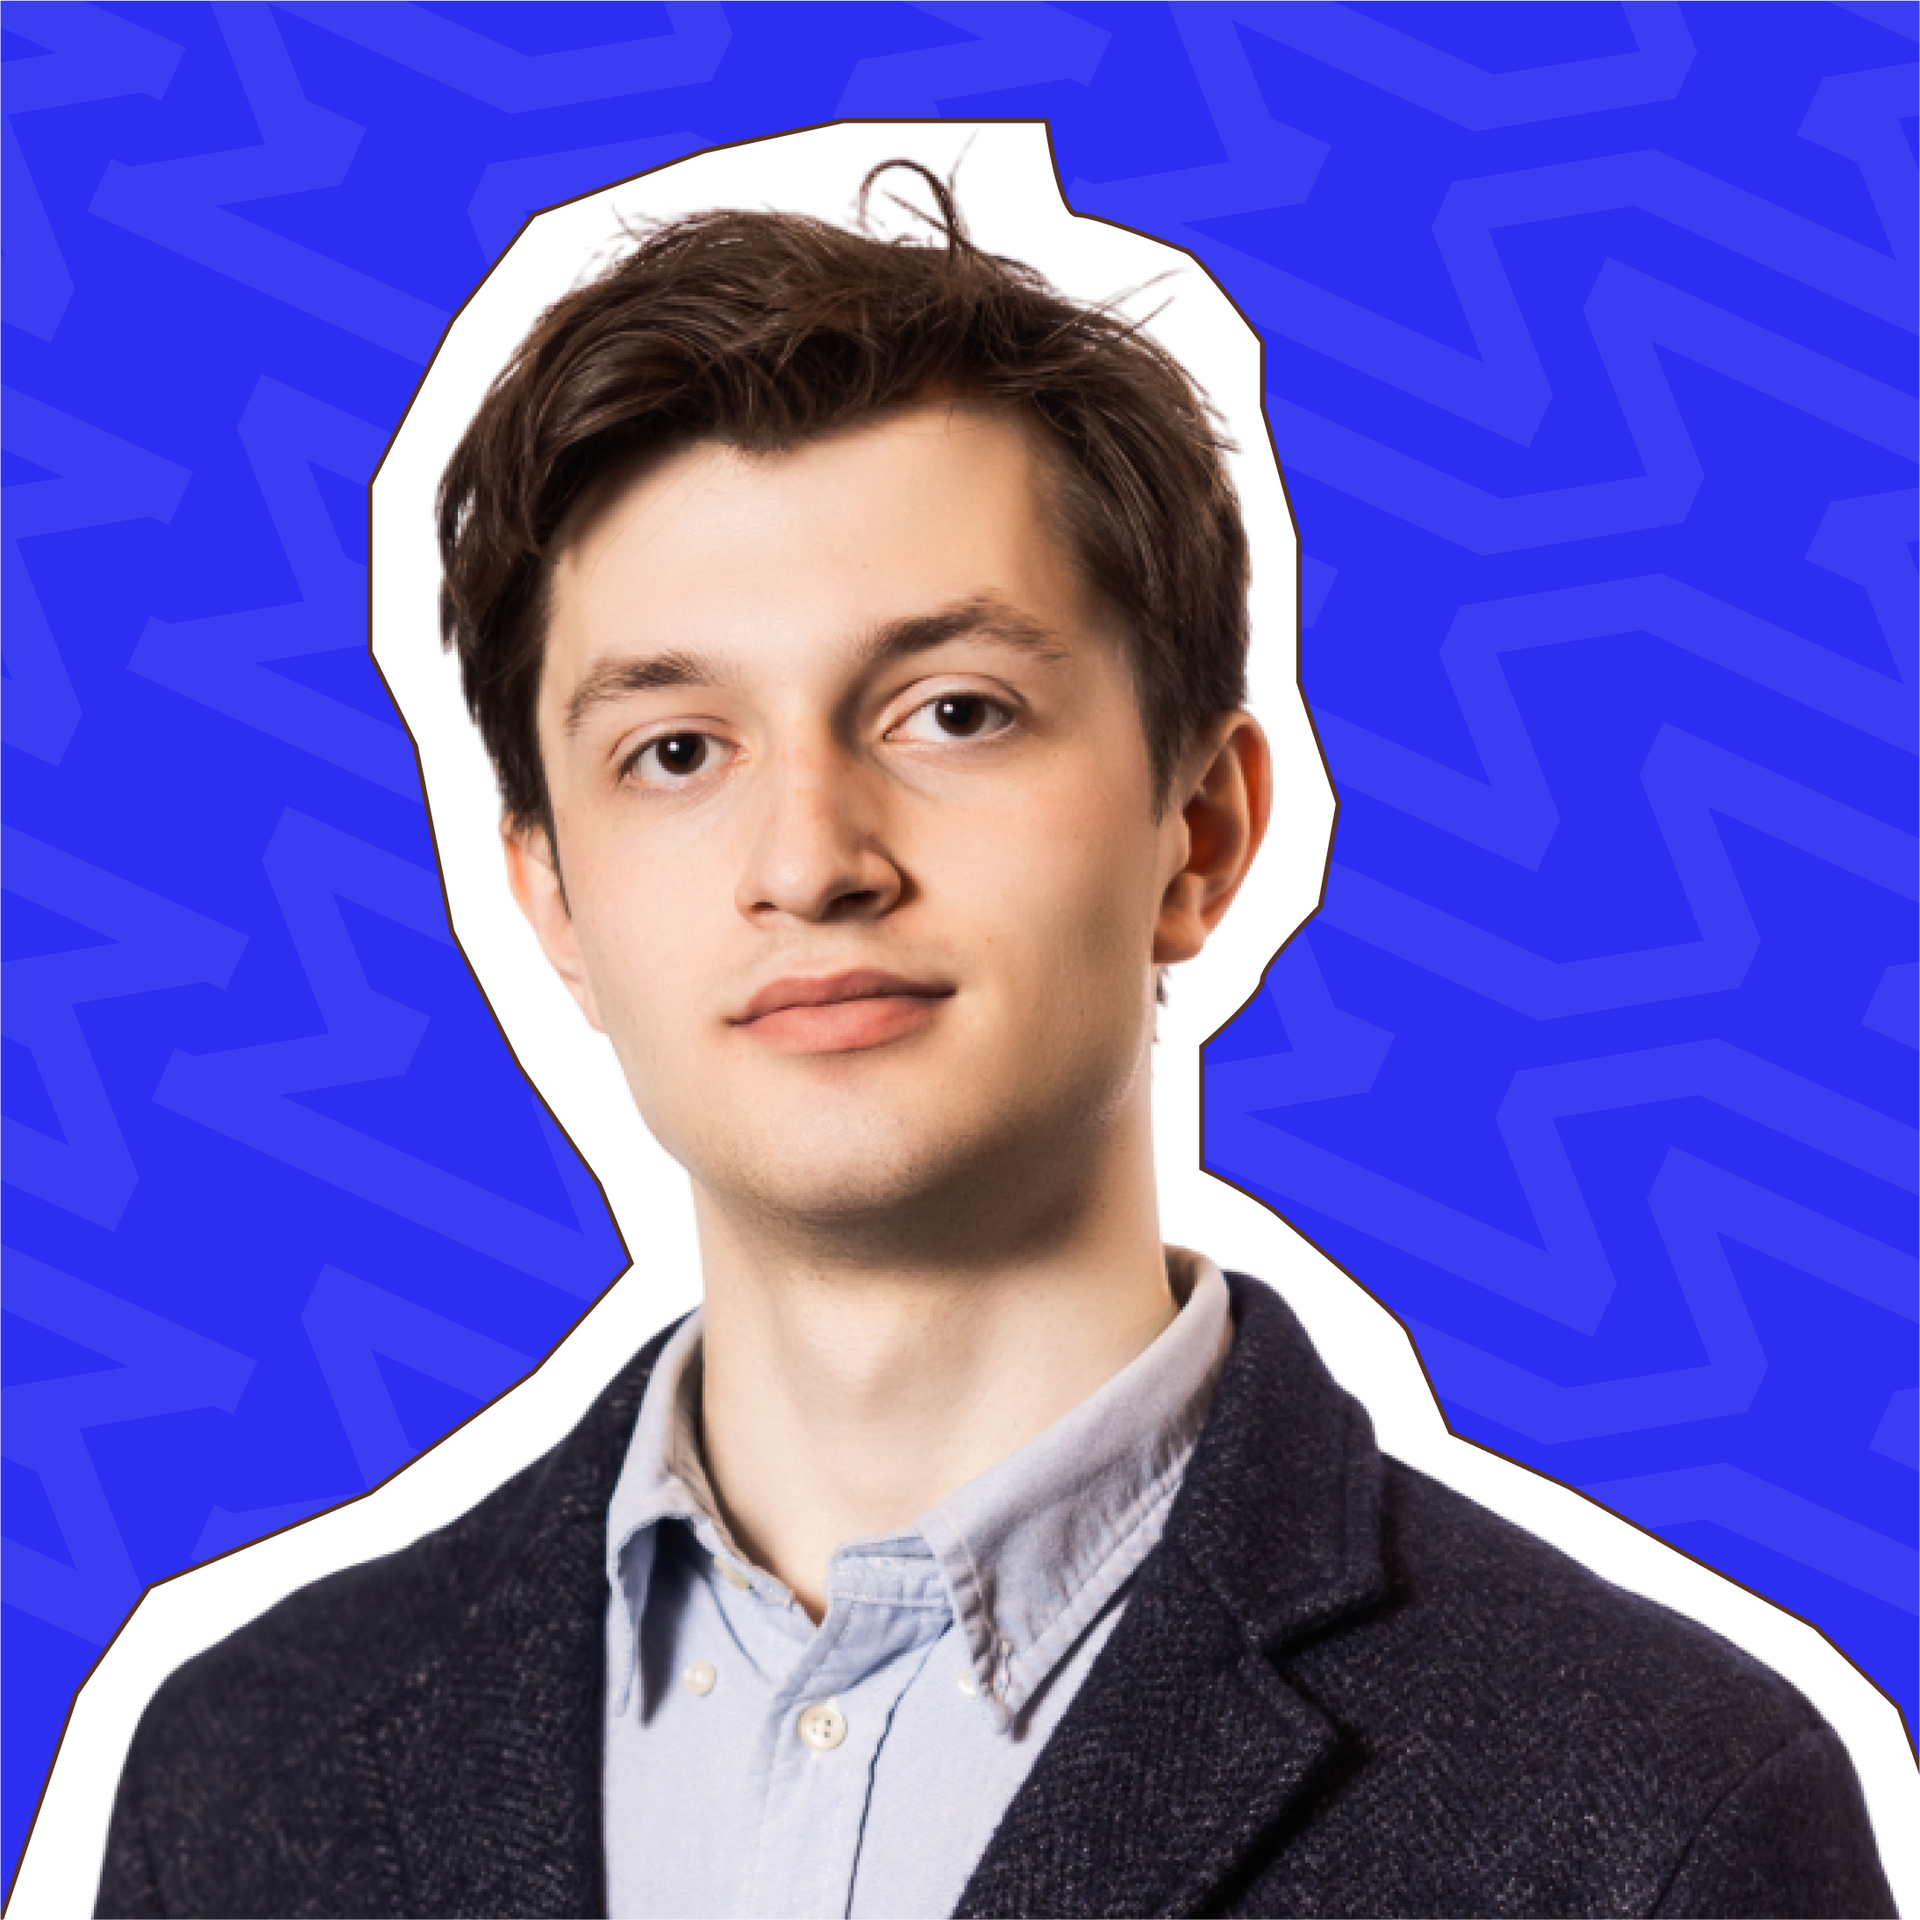
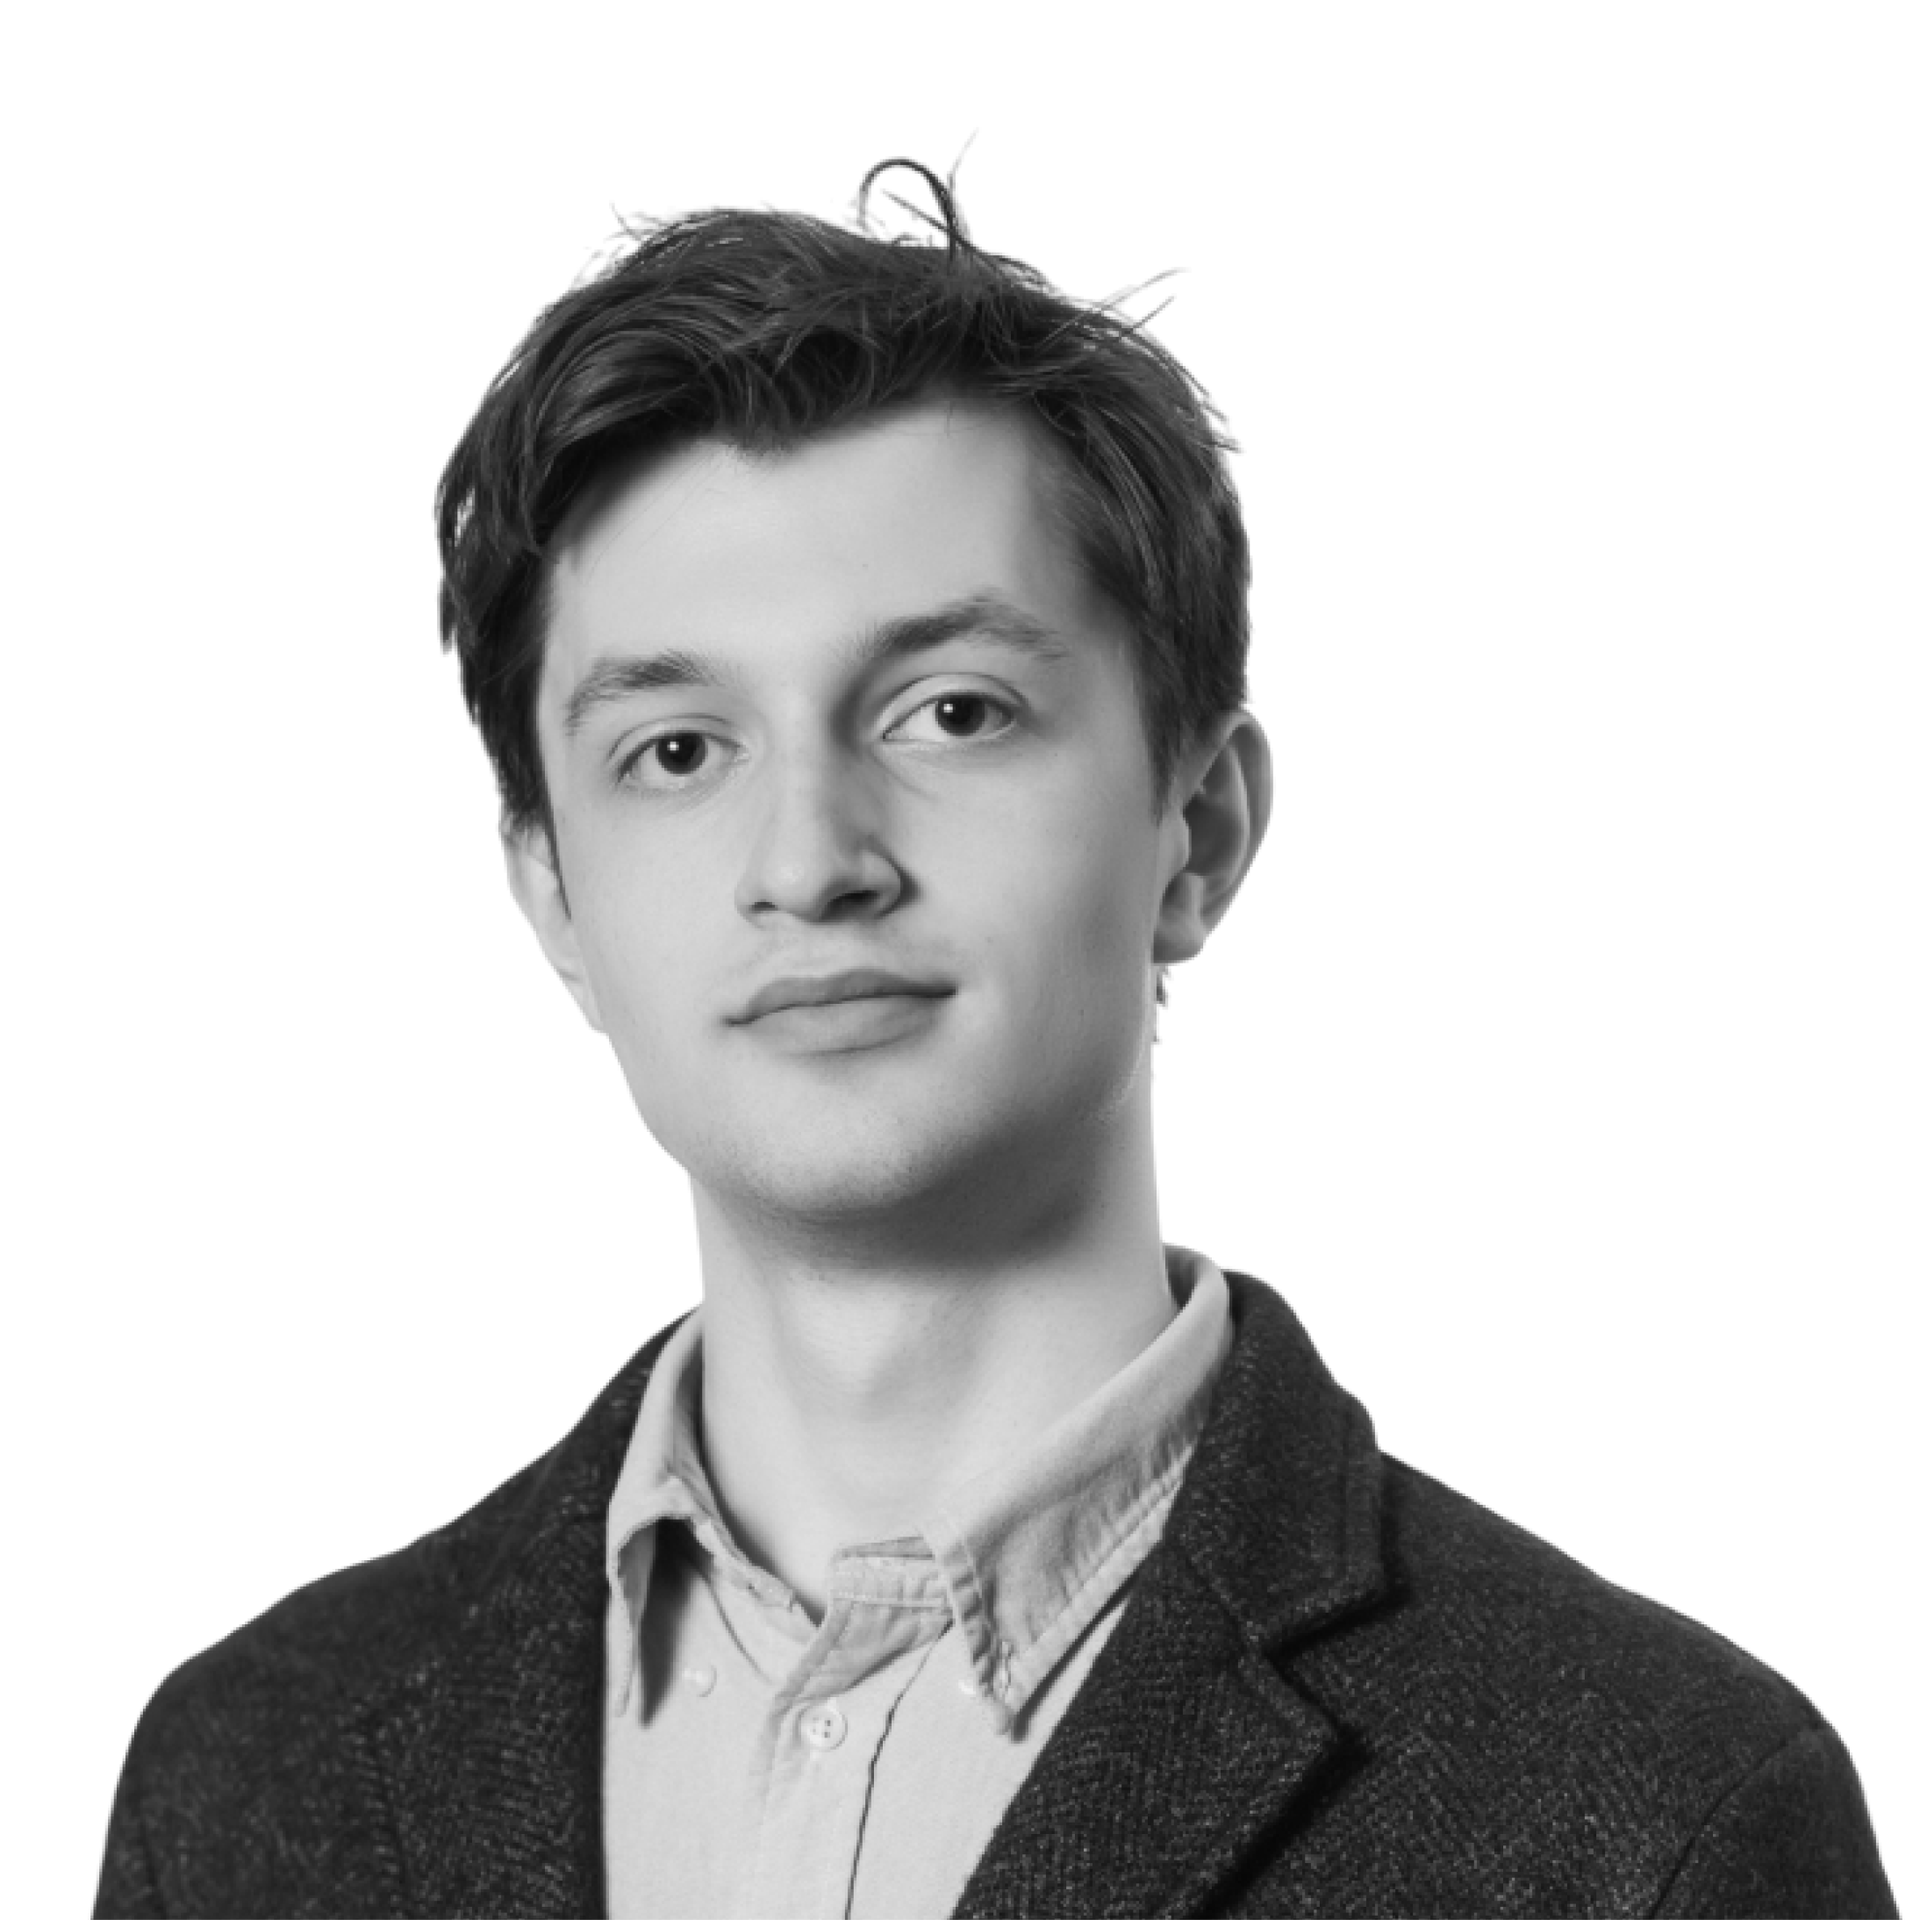
Updated cover photo and fixes

diff --git a/src/components/HomeBlock.tsx b/src/components/HomeBlock.tsx
@@ -7,8 +7,8 @@ import SocialLinks from './socialLinks';
 import { contactLinks } from '../utils/links'
 import ButtonArrow from './ButtonArrow';
 import { useState } from 'react';
-import MAIN_PHOTO from '../assets/img/photoCover.png';
-import HOVER_PHOTO from '../assets/img/photoCover-hover.png';
+import MAIN_PHOTO from '../assets/img/PHOTO__COVER.png';
+import HOVER_PHOTO from '../assets/img/PHOTO__COVER--HOVER.png';
 
 const HomeBLock = () => {
     const [imageSrc, setImageSrc] = useState(MAIN_PHOTO);

diff --git a/src/components/CustomCursor.tsx b/src/components/CustomCursor.tsx
@@ -9,7 +9,7 @@ const CustomCursor = ({ active, text } : CustomCursorProps) => {
     const [position, setPosition] = useState({ x: 0, y: 0 });
 
     useEffect(() => {
-        const updateCursor = (e) => {
+        const updateCursor = (e: MouseEvent) => {
             setPosition({ x: e.clientX, y: e.clientY });
         };
 
